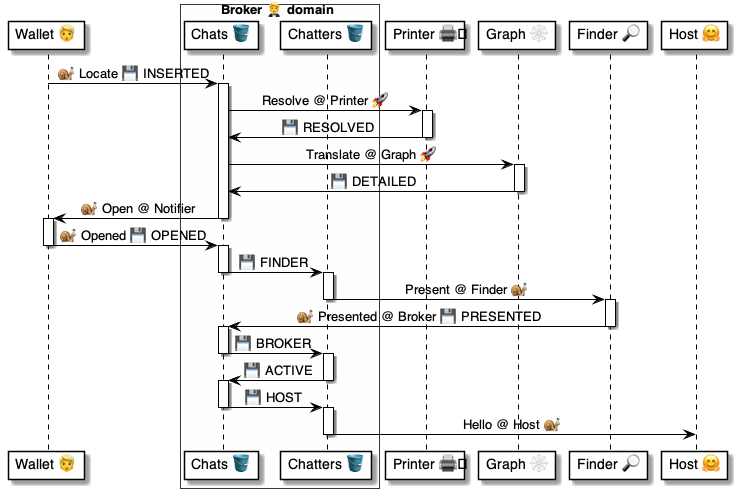
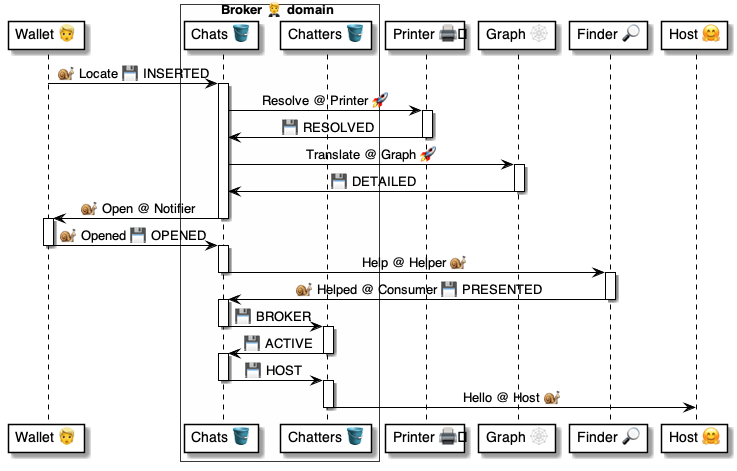
.

diff --git a/4 ⚙ Solution/20 🧑🦰 UI/Brokers 🤵/🤵🪣 Broker tables/Chatters 👥 table/🪣 Chatters/🤵 Broker.Chatters 🪣 table.md b/4 ⚙ Solution/20 🧑🦰 UI/Brokers 🤵/🤵🪣 Broker tables/Chatters 👥 table/🪣 Chatters/🤵 Broker.Chatters 🪣 table.md
@@ -11,7 +11,7 @@
 | [Role 🎭](<../../../../../40 👥 Domains/👥 Domain/👥🎭 Domain Role.md>) | [Broker 🤵](<../../../🤵 Broker helper/🤵 Broker 🤲 helper.md>) | [domain 👥](<../../../../../40 👥 Domains/👥 Domain/👥 Domain.md>) | Details
 |-|-|-|-
 | [Host 🤗](<../../../../../41 🎭 Domain Roles/Hosts 🤗/🤗 Host role/🤗🎭 Host role.md>) | [`Locate@Broker`](<../../../🤵📨 Broker msgs/Locators 🔆 Locate 🧑🦰🐌🤵/🤵 Locate 🐌 msg.md>) | [`Hello@Host`](<../../../../../41 🎭 Domain Roles/Hosts 🤗/🤗📨 Host msgs/Hello 🤵🐌🤗/🤗 Hello 🐌 msg.md>)| Done
-| [Finder 🔎](<../../../../../50 🫥 Agent domains/Finders 🔎/🔎 Finder agent/🔎 Finder 🫥 agent.md>) | [`Locate@Broker`](<../../../🤵📨 Broker msgs/Locators 🔆 Locate 🧑🦰🐌🤵/🤵 Locate 🐌 msg.md>) | [`Present@Finder`](<../../../../../50 🫥 Agent domains/Finders 🔎/🔎🅰 Finder methods/Present 🤵🐌🔎/🔎 Present 🐌 msg.md>) | Done
+| [Finder 🔎](<../../../../../50 🫥 Agent domains/Finders 🔎/🔎 Finder agent/🔎 Finder 🫥 agent.md>) | [`Locate@Broker`](<../../../🤵📨 Broker msgs/Locators 🔆 Locate 🧑🦰🐌🤵/🤵 Locate 🐌 msg.md>) | [`Present@Finder`](<../../../../../50 🫥 Agent domains/Finders 🔎/🔎😃 Talkers/Present/🔎 Present 🐌 msg.md>) | Done
 | [Helper 🤲](<../../../../../45 🤲 Helper domains/$ Helpers 🤲/🤲 Helper/🤲👥 Helper domain.md>) | [`Invite@Broker`](<../../../🤵📨 Broker msgs/Share 💼 Invite 💼🐌🤵/🤵 Invite 🐌 msg.md>) | [`Help@Helper`](<../../../../../45 🤲 Helper domains/$ Helpers 🤲/🤲📨 Helper msgs/🤵🐌🤲 Invited/🤲 Help 🐌 msg.md>) | Done
 | [Vault 🗄](<../../../../../41 🎭 Domain Roles/Vaults 🗄/🗄 Vault/🗄🎭 Vault role.md>) | [`Query@Broker`](<../../../🤵📨 Broker msgs/Share 💼 Query 💼🐌🤵/🤵 Query 🐌 msg.md>) | [`Disclose@Vault`](<../../../../../41 🎭 Domain Roles/Vaults 🗄/🗄📨 Vault msgs/Disclose 🤵🐌🗄/🗄 Disclose 🐌 msg.md>) | Missing 🚨
 |
@@ -54,12 +54,11 @@ Parents:
 
 <br/>
 
-The [Item 🛢 Handlers](<../../../../../30 🧩 Data/Datasets 🪣/🪣🛢 Itemized datasets/Item 🛢 Handlers.md>) are: [`OnPop`](<../🪣🧱 11 Pop 🔔 event/🤵 OnChatterPop 🔔 handler.md>) [`OnFinder`](<../🪣🧱 21 Finder 🔔 event/🤵 OnChatterFinder 🔔 handler.md>) [`OnBroker`](<../🪣🧱 22 Broker 🔔 event/🤵 OnChatterBroker 🔔 handler.md>) [`OnHost`](<../🪣🧱 23 Host 🔔 event/🤵 OnChatterHost 🔔 handler.md>) [`OnHelper`](<../🪣🧱 34 Helper 🔔 event/🤵 OnChatterHelper 🔔 handler.md>)
+The [Item 🛢 Handlers](<../../../../../30 🧩 Data/Datasets 🪣/🪣🛢 Itemized datasets/Item 🛢 Handlers.md>) are: [`OnPop`](<../🪣🧱 11 Pop 🔔 event/🤵 OnChatterPop 🔔 handler.md>)  [`OnBroker`](<../🪣🧱 22 Broker 🔔 event/🤵 OnChatterBroker 🔔 handler.md>) [`OnHost`](<../🪣🧱 23 Host 🔔 event/🤵 OnChatterHost 🔔 handler.md>) [`OnHelper`](<../🪣🧱 34 Helper 🔔 event/🤵 OnChatterHelper 🔔 handler.md>)
 
 ```yaml
 Handlers:
     POP    >> OnPop:      # Handles a pop-up
-    FINDER >> OnFinder:   # Calls Present@Finder
     BROKER >> OnBroker:   # Calls Prompt@Notifier
     HOST   >> OnHost:     # Calls Hello@Host
     HELPER >> OnHelper:   # Calls Help@Helper
@@ -146,5 +145,5 @@ Field|Type|Details|Origin|Purpose
 |`Key`| text | [Locator 🔆](<../../../../../25 🔆 Locators/Locators 🔆/🔆 Locator.md>) key || [`Chat@`](<../../../🤵📨 Broker msgs/Chats 💬 Chat 🤗🚀🤵/🤵 Chat 📃 handler.md>) |
 |`Parameters` | map | [Chat 💬](<../../../../../35 💬 Chats/Chats 💬/💬 Chat.md>) parameters || [`Chat@`](<../../../🤵📨 Broker msgs/Chats 💬 Chat 🤗🚀🤵/🤵 Chat 📃 handler.md>)
 |`Binds`|list| [Binds 🔗](<../../../../../30 🧩 Data/Binds 🔗/🔗 Bind.md>) shared |  | [`Chat@`](<../../../🤵📨 Broker msgs/Chats 💬 Chat 🤗🚀🤵/🤵 Chat 📃 handler.md>)
-|`Tokens` | list | [Tokens 🎫](<../../../../../30 🧩 Data/Tokens 🎫/🎫 Token/🎫 Token.md>) shared || [`Presented@`](<../../../🤵📨 Broker msgs/Chats 💬 Presented 🔎🐌🤵/🤵 Presented 🐌 msg.md>)
+|`Tokens` | list | [Tokens 🎫](<../../../../../30 🧩 Data/Tokens 🎫/🎫 Token/🎫 Token.md>) shared || [`Chat@`](<../../../🤵📨 Broker msgs/Chats 💬 Chat 🤗🚀🤵/🤵 Chat 📃 handler.md>)
 |

diff --git a/4 ⚙ Solution/50 🫥 Agent domains/Finders 🔎/🔎😃 Talkers/Present/🔎 Present 🐌 msg.md b/4 ⚙ Solution/50 🫥 Agent domains/Finders 🔎/🔎😃 Talkers/Present/🔎 Present 🐌 msg.md
@@ -10,31 +10,24 @@
 > Used by 
 
 *  [🔎⏩🧑🦰 Present 🤗](<../../🔎⏩ Finder flows/Present 🔎⏩🧑🦰/🔎 Present ⏩ flow.md>) flow:
-* followed by [`Presented@Broker` 🐌 msg](<../../../../20 🧑🦰 UI/Brokers 🤵/🤵📨 Broker msgs/Chats 💬 Presented 🔎🐌🤵/🤵 Presented 🐌 msg.md>)
 
 <br/>
 
-## Async Message 🐌
+## Event
 
 ```yaml
-Header:
-    From: any-broker.dom
-    To: any-finder.dom
-    Subject: Present@Broker
-
-Body:
-    Chat: <chat-uuid>
-    Host: any-host.dom
-    Language: en-us
-    Reviewer: any-reviewer.dom
+Broker: any-broker.dom
+Chat: <chat-uuid>
+Host: any-host.dom
+Language: en-us
+Reviewer: any-reviewer.dom
 ```
 
-|Object|Property|Type|Description|Origin|Purpose
+||Property|Type|Description|Origin|Purpose
 |-|-|-|-|-|-
-| Header |`From`|text| [Finder 🔎](<../../🔎 Finder agent/🔎 Finder 🫥 agent.md>) | [`Bound@Vault`](<../../../../41 🎭 Domain Roles/Vaults 🗄/🗄📨 Vault msgs/Bound 🤵🐌🗄/🗄 Bound 🐌 msg.md>)
-|        |`To`|text| [Broker 🤵](<../../../../20 🧑🦰 UI/Brokers 🤵/🤵 Broker helper/🤵 Broker 🤲 helper.md>) | [`Open@Notifier`](<../../../../20 🧑🦰 UI/Notifiers 📣/📣📨 Notifier msgs/Chats 💬 Open 🤵🐌📣/📣 Open 🐌 msg.md>) |[`Prompt@Broker`](<../../../../20 🧑🦰 UI/Brokers 🤵/🤵📨 Broker msgs/Chats 💬 Prompt 🤗🐌🤵/🤵 Prompt 🐌 msg.md>)
-|        | `Subject` |text| `Presented@Broker`
-| Body   | `Chat`  | uuid   | [Chat 💬](<../../../../35 💬 Chats/Chats 💬/💬 Chat.md>) | [`Open@Notifier`](<../../../../20 🧑🦰 UI/Notifiers 📣/📣📨 Notifier msgs/Chats 💬 Open 🤵🐌📣/📣 Open 🐌 msg.md>) | [`Prompt@Broker`](<../../../../20 🧑🦰 UI/Brokers 🤵/🤵📨 Broker msgs/Chats 💬 Prompt 🤗🐌🤵/🤵 Prompt 🐌 msg.md>)
+| |`Finder`|text| [Finder 🔎](<../../🔎 Finder agent/🔎 Finder 🫥 agent.md>) | [`Bound@Vault`](<../../../../41 🎭 Domain Roles/Vaults 🗄/🗄📨 Vault msgs/Bound 🤵🐌🗄/🗄 Bound 🐌 msg.md>)
+|        |`Broker`|text| [Broker 🤵](<../../../../20 🧑🦰 UI/Brokers 🤵/🤵 Broker helper/🤵 Broker 🤲 helper.md>) | [`Open@Notifier`](<../../../../20 🧑🦰 UI/Notifiers 📣/📣📨 Notifier msgs/Chats 💬 Open 🤵🐌📣/📣 Open 🐌 msg.md>) |[`Prompt@Broker`](<../../../../20 🧑🦰 UI/Brokers 🤵/🤵📨 Broker msgs/Chats 💬 Prompt 🤗🐌🤵/🤵 Prompt 🐌 msg.md>)
+|   | `Chat`  | uuid   | [Chat 💬](<../../../../35 💬 Chats/Chats 💬/💬 Chat.md>) | [`Open@Notifier`](<../../../../20 🧑🦰 UI/Notifiers 📣/📣📨 Notifier msgs/Chats 💬 Open 🤵🐌📣/📣 Open 🐌 msg.md>) | [`Prompt@Broker`](<../../../../20 🧑🦰 UI/Brokers 🤵/🤵📨 Broker msgs/Chats 💬 Prompt 🤗🐌🤵/🤵 Prompt 🐌 msg.md>)
 |       | `Host`| domain | [Host 🤗](<../../../../41 🎭 Domain Roles/Hosts 🤗/🤗 Host role/🤗🎭 Host role.md>) | [`Open@Notifier`](<../../../../20 🧑🦰 UI/Notifiers 📣/📣📨 Notifier msgs/Chats 💬 Open 🤵🐌📣/📣 Open 🐌 msg.md>) | [`About@Graph`](<../../../../45 🤲 Helper domains/Graphs 🕸/🕸📨 Graph msgs/👥🚀🕸 About/🕸 About 🚀 call.md>)
 |       | `Language` |text| [Chat 💬](<../../../../35 💬 Chats/Chats 💬/💬 Chat.md>) language | [`Pop@Broker`](<../../../../20 🧑🦰 UI/Brokers 🤵/🤵📨 Broker msgs/Wallets 🧑🦰 Pop 🧑🦰🐌🤵/🤵 Pop 🐌 msg.md>) | [`Translate@Graph`](<../../../../45 🤲 Helper domains/Graphs 🕸/🕸📨 Graph msgs/👥🚀🕸 Translate/🕸 Translate 🚀 call.md>)
 | | `Reviewer` | domain | [Reviewer ⭐](<../../../Reviewers ⭐/⭐ Reviewer agent/⭐ Reviewer 🫥 agent.md>) | [`Bound@Vault`](<../../../../41 🎭 Domain Roles/Vaults 🗄/🗄📨 Vault msgs/Bound 🤵🐌🗄/🗄 Bound 🐌 msg.md>) | [`Reviews@Reviewer`](<../../../Reviewers ⭐/⭐🅰 Reviewer methods/🔎🚀⭐ Reviews.md>)

diff --git a/4 ⚙ Solution/20 🧑🦰 UI/Brokers 🤵/🤵🪣 Broker tables/Chats 💬 table/🪣 Chats/🤵 Broker.Chats 🪣 table.md b/4 ⚙ Solution/20 🧑🦰 UI/Brokers 🤵/🤵🪣 Broker tables/Chats 💬 table/🪣 Chats/🤵 Broker.Chats 🪣 table.md
@@ -14,8 +14,8 @@
 |[`Open`](<../🪣🧱 10 Open ⏩ flow/🤵 Broker.Chats.Open ⏩ flow.md>)|[`ASKED`](<../🪣🧱 11 Asked 🔔 event/🤵 OnChatAsked 🔔 handler.md>) |[`Locate` 🐌](<../../../🤵📨 Broker msgs/Locators 🔆 Locate 🧑🦰🐌🤵/🤵 Locate 📃 handler.md>)| [`Resolve@Printer` 🚀](<../../../../../45 🤲 Helper domains/Printers 🖨/🖨📨 Printer msgs/Resolve 👥🚀🖨/🖨 Resolve 📃 handler.md>) | Inserted
 ||[`RESOLVED`](<../🪣🧱 12 Resolved 🔔 event/🤵 OnChatResolved 🔔 handler.md>) || [`About@Graph` 🚀](<../../../../../45 🤲 Helper domains/Graphs 🕸/🕸📨 Graph msgs/👥🚀🕸 About/🕸 About 📃 handler.md>) | Final [Locator 🔆](<../../../../../25 🔆 Locators/Locators 🔆/🔆 Locator.md>)
 ||[`DETAILED`](<../🪣🧱 13 Detailed 🔔 event/🤵 OnChatDetailed 🔔 handler.md>) || [`Open@Notifier` 🐌](<../../../../Notifiers 📣/📣📨 Notifier msgs/Chats 💬 Open 🤵🐌📣/📣 Open 🐌 msg.md>) | With translations
-||[`OPENED`](<../🪣🧱 14 Opened 🔔 event/🤵 OnChatOpened 🔔 handler.md>) |[`Opened` 🐌](<../../../🤵📨 Broker msgs/Chats 💬 Opened 🧑🦰🐌🤵/🤵 Opened 📃 handler.md>)| [`Present@Finder` 🐌](<../../../../../50 🫥 Agent domains/Finders 🔎/🔎🅰 Finder methods/Present 🤵🐌🔎/🔎 Present 🐌 msg.md>) | Open on [Wallet 🧑🦰](<../../../../Wallets 🧑🦰/🧑🦰 Wallet app/🧑🦰 Wallet 🛠 app.md>)
-||[`PRESENTED`](<../🪣🧱 15 Presented 🔔 event/🤵 OnChatPresented 🔔 handler.md>) | [`Presented` 🐌](<../../../🤵📨 Broker msgs/Chats 💬 Presented 🔎🐌🤵/🤵 Presented 📃 handler.md>) | [`Prompt@Notifier` 🐌](<../../../🤵📨 Broker msgs/Chats 💬 Prompt 🤗🐌🤵/🤵 Prompt 🐌 msg.md>) |With  [Finder 🔎](<../../../../../50 🫥 Agent domains/Finders 🔎/🔎 Finder agent/🔎 Finder 🫥 agent.md>) intro
+||[`OPENED`](<../🪣🧱 14 Opened 🔔 event/🤵 OnChatOpened 🔔 handler.md>) |[`Opened` 🐌](<../../../🤵📨 Broker msgs/Chats 💬 Opened 🧑🦰🐌🤵/🤵 Opened 📃 handler.md>)| [`Present@Finder` 🐌](<../../../../../50 🫥 Agent domains/Finders 🔎/🔎😃 Talkers/Present/🔎 Present 🐌 msg.md>) | Open on [Wallet 🧑🦰](<../../../../Wallets 🧑🦰/🧑🦰 Wallet app/🧑🦰 Wallet 🛠 app.md>)
+||[`PRESENTED`](<../🪣🧱 15 Presented 🔔 event/🤵 OnChatPresented 🔔 handler.md>) |  | [`Prompt@Notifier` 🐌](<../../../🤵📨 Broker msgs/Chats 💬 Prompt 🤗🐌🤵/🤵 Prompt 🐌 msg.md>) |With  [Finder 🔎](<../../../../../50 🫥 Agent domains/Finders 🔎/🔎 Finder agent/🔎 Finder 🫥 agent.md>) intro
 ||[`ACTIVATED`](<../🪣🧱 16 Activated 🔔 event/🤵 OnChatActivated 🔔 handler.md>)|| [`Hello@Host` 🐌](<../../../../../41 🎭 Domain Roles/Hosts 🤗/🤗📨 Host msgs/Hello 🤵🐌🤗/🤗 Hello 🐌 msg.md>) | With [Broker 🤵](<../../../🤵 Broker helper/🤵 Broker 🤲 helper.md>) intro
 |[`Abandon`](<../🪣🧱 40 Abandon ⏩ flow/🤵 Broker.Chats.Abandon ⏩ flow.md>)|[`ABANDONED`](<../🪣🧱 41 Abandoned 🔔 event/🤵 OnChatAbandoned 🔔 handler.md>)| [`Pop` 🐌](<../../../🤵📨 Broker msgs/Wallets 🧑🦰 Pop 🧑🦰🐌🤵/🤵 Pop 📃 handler.md>) |[`Abandoned@Host` 🐌](<../../../../../41 🎭 Domain Roles/Hosts 🤗/🤗📨 Host msgs/Abandoned 🤵🐌🤗/🤗 Abandoned 🐌 msg.md>) | Abandoned by user
 |[`Wrap`](<../🪣🧱 50 Wrap ⏩ flow/🤵 Broker.Chats.Wrap ⏩ flow.md>)|[`WRAPPED`](<../🪣🧱 51 Wrap 🔔 event/🤵 OnChatWrapped 🔔 handler.md>)| [`Goodbye` 🐌](<../../../🤵📨 Broker msgs/Chats 💬 Goodbye 🤗🐌🤵/🤵 Goodbye 📃 handler.md>) ||Closed by [Host 🤗](<../../../../../41 🎭 Domain Roles/Hosts 🤗/🤗 Host role/🤗🎭 Host role.md>)

diff --git a/4 ⚙ Solution/20 🧑🦰 UI/Brokers 🤵/🤵⏩ Broker flows/Locate 🔆⏩🤵/🤵 Locate ⏩ flow.md b/4 ⚙ Solution/20 🧑🦰 UI/Brokers 🤵/🤵⏩ Broker flows/Locate 🔆⏩🤵/🤵 Locate ⏩ flow.md
@@ -44,9 +44,9 @@
 |2|[🤵🚀🖨 `Resolve@Printer`](<../../../../45 🤲 Helper domains/Printers 🖨/🖨📨 Printer msgs/Resolve 👥🚀🖨/🖨 Resolve 🚀 call.md>) | Ask [Printers 🖨](<../../../../45 🤲 Helper domains/Printers 🖨/🖨🤲 Printer helper.md>) to resolve [`.ALIAS` 🧩](<../../../../45 🤲 Helper domains/Printers 🖨/🖨🧩 Printer schemas/🧩 ALIAS.md>)
 |3| [🤵🐌📣 `Open@Notifier`](<../../../Notifiers 📣/📣📨 Notifier msgs/Chats 💬 Open 🤵🐌📣/📣 Open 🐌 msg.md>) | Ask [Wallets 🧑🦰](<../../../Wallets 🧑🦰/🧑🦰 Wallet app/🧑🦰 Wallet 🛠 app.md>)  to open a chat window
 |4| [🧑🦰🐌🤵 `Opened@Broker`](<../../🤵📨 Broker msgs/Chats 💬 Opened 🧑🦰🐌🤵/🤵 Opened 🐌 msg.md>) | [Wallets 🧑🦰](<../../../Wallets 🧑🦰/🧑🦰 Wallet app/🧑🦰 Wallet 🛠 app.md>) confirm readiness
-|5| [🤵🐌🔎`Present@Finder`](<../../../../50 🫥 Agent domains/Finders 🔎/🔎🅰 Finder methods/Present 🤵🐌🔎/🔎 Present 🐌 msg.md>) | Ask [Finders 🔎](<../../../../50 🫥 Agent domains/Finders 🔎/🔎 Finder agent/🔎 Finder 🫥 agent.md>) to introduce [Hosts 🤗](<../../../../41 🎭 Domain Roles/Hosts 🤗/🤗 Host role/🤗🎭 Host role.md>)
+|5| [🤵🐌🤲 `Help@Helper`](<../../../../45 🤲 Helper domains/$ Helpers 🤲/🤲📨 Helper msgs/🤵🐌🤲 Invited/🤲 Help 🐌 msg.md>) | Ask [Finders 🔎](<../../../../50 🫥 Agent domains/Finders 🔎/🔎 Finder agent/🔎 Finder 🫥 agent.md>) to introduce [Hosts 🤗](<../../../../41 🎭 Domain Roles/Hosts 🤗/🤗 Host role/🤗🎭 Host role.md>)
 |6| [🤗⏩🧑🦰 Prompt](<../../../../41 🎭 Domain Roles/Hosts 🤗/🤗⏩ Host flows/Prompt 🤗⏩🤔/🤗 Prompt ⏩ flow.md>) | [Finders 🔎](<../../../../50 🫥 Agent domains/Finders 🔎/🔎 Finder agent/🔎 Finder 🫥 agent.md>) introduce [Hosts 🤗](<../../../../41 🎭 Domain Roles/Hosts 🤗/🤗 Host role/🤗🎭 Host role.md>)
-|7| [🔎🐌🤵 `Presented@Broker`](<../../🤵📨 Broker msgs/Chats 💬 Presented 🔎🐌🤵/🤵 Presented 🐌 msg.md>) | [Finders 🔎](<../../../../50 🫥 Agent domains/Finders 🔎/🔎 Finder agent/🔎 Finder 🫥 agent.md>) confirm introduction
+|7| [🤲🐌💼 `Helped@Consumer`](<../../../../41 🎭 Domain Roles/Consumers 💼/💼📨 Consumer msgs/Helped 🤲🐌💼/💼 Helped 🐌 msg.md>) | [Finders 🔎](<../../../../50 🫥 Agent domains/Finders 🔎/🔎 Finder agent/🔎 Finder 🫥 agent.md>) confirm introduction
 |8| [🤗⏩🧑🦰 Prompt](<../../../../41 🎭 Domain Roles/Hosts 🤗/🤗⏩ Host flows/Prompt 🤗⏩🤔/🤗 Prompt ⏩ flow.md>) | [Brokers 🤵](<../../🤵 Broker helper/🤵 Broker 🤲 helper.md>) reference original [Chats 💬](<../../../../35 💬 Chats/Chats 💬/💬 Chat.md>) 
 |9| [🤵🐌🤗 `Hello@Host`](<../../../../41 🎭 Domain Roles/Hosts 🤗/🤗📨 Host msgs/Hello 🤵🐌🤗/🤗 Hello 🐌 msg.md>) | Ask [Hosts 🤗](<../../../../41 🎭 Domain Roles/Hosts 🤗/🤗 Host role/🤗🎭 Host role.md>) to interact
 |A | [🤗⏩🧑🦰 Prompt](<../../../../41 🎭 Domain Roles/Hosts 🤗/🤗⏩ Host flows/Prompt 🤗⏩🤔/🤗 Prompt ⏩ flow.md>) | Welcome message from [Hosts 🤗](<../../../../41 🎭 Domain Roles/Hosts 🤗/🤗 Host role/🤗🎭 Host role.md>) 

diff --git a/4 ⚙ Solution/20 🧑🦰 UI/Brokers 🤵/🤵🪣 Broker tables/Chats 💬 table/🪣🧱 10 Open ⏩ Flow/🤵 Broker.Chats.Open ⏩ flow.md b/4 ⚙ Solution/20 🧑🦰 UI/Brokers 🤵/🤵🪣 Broker tables/Chats 💬 table/🪣🧱 10 Open ⏩ Flow/🤵 Broker.Chats.Open ⏩ flow.md
@@ -19,7 +19,7 @@
 ||[`ASKED`](<../🪣🧱 11 Asked 🔔 event/🤵 OnChatAsked 🔔 handler.md>) |[`Locate` 🐌](<../../../🤵📨 Broker msgs/Locators 🔆 Locate 🧑🦰🐌🤵/🤵 Locate 📃 handler.md>)| [`Resolve@Printer` 🚀](<../../../../../45 🤲 Helper domains/Printers 🖨/🖨📨 Printer msgs/Resolve 👥🚀🖨/🖨 Resolve 📃 handler.md>) | Inserted
 ||[`RESOLVED`](<../🪣🧱 12 Resolved 🔔 event/🤵 OnChatResolved 🔔 handler.md>) || [`About@Graph` 🚀](<../../../../../45 🤲 Helper domains/Graphs 🕸/🕸📨 Graph msgs/👥🚀🕸 About/🕸 About 📃 handler.md>) | Final [Locator 🔆](<../../../../../25 🔆 Locators/Locators 🔆/🔆 Locator.md>)
 ||[`DETAILED`](<../🪣🧱 13 Detailed 🔔 event/🤵 OnChatDetailed 🔔 handler.md>) || [`Open@Notifier` 🐌](<../../../../Notifiers 📣/📣📨 Notifier msgs/Chats 💬 Open 🤵🐌📣/📣 Open 🐌 msg.md>) | With translations
-||[`OPENED`](<../🪣🧱 14 Opened 🔔 event/🤵 OnChatOpened 🔔 handler.md>) | [`Opened` 🐌](<../../../🤵📨 Broker msgs/Chats 💬 Opened 🧑🦰🐌🤵/🤵 Opened 📃 handler.md>) | [`Present@Finder` 🐌](<../../../../../50 🫥 Agent domains/Finders 🔎/🔎🅰 Finder methods/Present 🤵🐌🔎/🔎 Present 🐌 msg.md>) | Open on [Wallet 🧑🦰](<../../../../Wallets 🧑🦰/🧑🦰 Wallet app/🧑🦰 Wallet 🛠 app.md>)
-||[`PRESENTED`](<../🪣🧱 15 Presented 🔔 event/🤵 OnChatPresented 🔔 handler.md>) | [`Presented` 🐌](<../../../🤵📨 Broker msgs/Chats 💬 Presented 🔎🐌🤵/🤵 Presented 📃 handler.md>) | [`Prompt@Notifier` 🐌](<../../../🤵📨 Broker msgs/Chats 💬 Prompt 🤗🐌🤵/🤵 Prompt 🐌 msg.md>) |With  [Finder 🔎](<../../../../../50 🫥 Agent domains/Finders 🔎/🔎 Finder agent/🔎 Finder 🫥 agent.md>) intro
+||[`OPENED`](<../🪣🧱 14 Opened 🔔 event/🤵 OnChatOpened 🔔 handler.md>) | [`Opened` 🐌](<../../../🤵📨 Broker msgs/Chats 💬 Opened 🧑🦰🐌🤵/🤵 Opened 📃 handler.md>) | [`INVITE`](<../../../../../41 🎭 Domain Roles/Consumers 💼/💼⌘ Consumer cmds/INVITE 🤲/🤲 INVITE ⌘ cmd.md>) | Open on [Wallet 🧑🦰](<../../../../Wallets 🧑🦰/🧑🦰 Wallet app/🧑🦰 Wallet 🛠 app.md>)
+||[`PRESENTED`](<../🪣🧱 15 Presented 🔔 event/🤵 OnChatPresented 🔔 handler.md>) |  | [`Prompt@Notifier` 🐌](<../../../🤵📨 Broker msgs/Chats 💬 Prompt 🤗🐌🤵/🤵 Prompt 🐌 msg.md>) |With  [Finder 🔎](<../../../../../50 🫥 Agent domains/Finders 🔎/🔎 Finder agent/🔎 Finder 🫥 agent.md>) intro
 ||[`ACTIVATED`](<../🪣🧱 16 Activated 🔔 event/🤵 OnChatActivated 🔔 handler.md>)|| [`Hello@Host` 🐌](<../../../../../41 🎭 Domain Roles/Hosts 🤗/🤗📨 Host msgs/Hello 🤵🐌🤗/🤗 Hello 🐌 msg.md>) | With [Broker 🤵](<../../../🤵 Broker helper/🤵 Broker 🤲 helper.md>) intro
 |

diff --git a/4 ⚙ Solution/20 🧑🦰 UI/Brokers 🤵/🤵 Broker helper/🤵 Broker 🤲 helper.md b/4 ⚙ Solution/20 🧑🦰 UI/Brokers 🤵/🤵 Broker helper/🤵 Broker 🤲 helper.md
@@ -92,7 +92,6 @@
     | [`💬 Chats`](<../../../35 💬 Chats/Chats 💬/💬 Chat.md>)  | [🧑🦰🚀 Locate](<../🤵📨 Broker msgs/Locators 🔆 Locate 🧑🦰🐌🤵/🤵 Locate 🐌 msg.md>) | Parse the [Locator 🔆](<../../../25 🔆 Locators/Locators 🔆/🔆 Locator.md>) on the [Broker 🤵](<🤵 Broker 🤲 helper.md>)
     | | [🧑🦰🚀 Chats](<../🤵📨 Broker msgs/Wallets 🧑🦰 Frontend 🧑🦰🚀🤵/🤵 Frontend 🚀 call.md>) | Fetch [Chats 💬](<../../../35 💬 Chats/Chats 💬/💬 Chat.md>) from the [Broker 🤵](<🤵 Broker 🤲 helper.md>)
     | | [🤗🐌 Prompt](<../🤵📨 Broker msgs/Chats 💬 Prompt 🤗🐌🤵/🤵 Prompt 🐌 msg.md>) |   [Prompt 🤔](<../../../35 💬 Chats/Chats 💬/🤔 Prompt.md>) intent from [Host 🤗 domain](<../../../41 🎭 Domain Roles/Hosts 🤗/🤗 Host role/🤗🎭 Host role.md>) 
-    | |[🔎🐌 Presented](<../🤵📨 Broker msgs/Chats 💬 Presented 🔎🐌🤵/🤵 Presented 🐌 msg.md>) | A [Finder 🔎 domain](<../../../50 🫥 Agent domains/Finders 🔎/🔎 Finder agent/🔎 Finder 🫥 agent.md>) finished the intro
     | |[🤗🐌 Goodbye](<../🤵📨 Broker msgs/Chats 💬 Goodbye 🤗🐌🤵/🤵 Goodbye 🐌 msg.md>) | A [Host 🤗 domain](<../../../41 🎭 Domain Roles/Hosts 🤗/🤗 Host role/🤗🎭 Host role.md>) ended the [Chat 💬](<../../../35 💬 Chats/Chats 💬/💬 Chat.md>)
     | | [👀🐌 Promote](<../🤵📨 Broker msgs/Locators 🔆 Promote 👀🐌🤵/🤵 Promote 🐌 msg.md>) |  Check-in into the selected [Locator 🔆](<../../../25 🔆 Locators/Locators 🔆/🔆 Locator.md>)
     |[`🔗 Binds`](<../../../30 🧩 Data/Binds 🔗/🔗 Bind.md>)|  [🗄🐌 Bind](<../🤵📨 Broker msgs/Binds 🔗 Bind 🗄🐌🤵/🤵 Bind 🐌 msg.md>) | [Vaults 🗄](<../../../41 🎭 Domain Roles/Vaults 🗄/🗄 Vault/🗄🎭 Vault role.md>) offer to bind [Schema Codes 🧩](<../../../30 🧩 Data/Codes 🧩/🧩 Schema Code.md>)

diff --git a/4 ⚙ Solution/50 🫥 Agent domains/Finders 🔎/🔎😃 Talkers/Present/🔎 Present 📃 handler.md b/4 ⚙ Solution/50 🫥 Agent domains/Finders 🔎/🔎😃 Talkers/Present/🔎 Present 📃 handler.md
@@ -13,16 +13,12 @@
 
 ## Script
 
-> Called by the [`Locate@Broker` 📃 handler](<../../../../20 🧑🦰 UI/Brokers 🤵/🤵📨 Broker msgs/Locators 🔆 Locate 🧑🦰🐌🤵/🤵 Locate 📃 handler.md>)
 
 ```yaml
 📃 Present@Finder: 
 
-# Verify the message
-- VERIFY|$.Msg
-
 # Assert the inputs
-- ASSERT|$.Msg:
+- ASSERT|$.Inputs:
     AllOf: Chat, Host, Language, Reviewers
     UUIDs: Chat
     Texts: Host, Language, Reviewers
@@ -33,25 +29,21 @@
 
         Identity:
             SEND >> $identity:
-                Header:
-                    To: $.Hosted.Graph
-                    Subject: About@Graph
-                Body: 
-                    Domain: $.Msg.Host
+                To: $.Hosted.Graph
+                Subject: About@Graph
+                Domain: $Host
 
         Translate:
             TRANSLATE >> $translation:
-                Domain: $.Msg.Host
-                To: $.Msg.Language
+                Domain: $Host
+                To: $Language
 
         Reviews:
             SEND >> $reviews:
-                Header:
-                    To: $.Msg.Reviewer
-                    Subject: Reviews@Reviewer
-                Body:
-                    Language: $.Msg.Language
-                    Domain: $.Msg.Host$
+                To: $Reviewer
+                Subject: Reviews@Reviewer
+                Language: $Language
+                Domain: $Host
 
 # Send the Prompt
 - INFO:
@@ -62,14 +54,6 @@
         {$identity.Description}
     Options:
         $reviews.Options
-
-# Inform the Broker
-- SEND:
-    Header:
-        To: $.Msg.From
-        Subject: Presented@Broker
-    Body:
-        Chat: $.Msg.Chat
 ```
 
 Uses||

diff --git a/4 ⚙ Solution/50 🫥 Agent domains/Finders 🔎/🔎⏩ Finder flows/Present 🔎⏩🧑🦰/🔎 Present ⏩ flow.md b/4 ⚙ Solution/50 🫥 Agent domains/Finders 🔎/🔎⏩ Finder flows/Present 🔎⏩🧑🦰/🔎 Present ⏩ flow.md
@@ -30,10 +30,10 @@
 
 | # | Call | Notes
 |-|-|-
-| 1 | [🤵🐌🔎 `Present@Finder`](<../../🔎🅰 Finder methods/Present 🤵🐌🔎/🔎 Present 🐌 msg.md>) | Ask to introduce a [Host 🤗](<../../../../41 🎭 Domain Roles/Hosts 🤗/🤗 Host role/🤗🎭 Host role.md>).
+| 1 | [🤵🐌🔎 `Present@Finder`](<../../🔎😃 Talkers/Present/🔎 Present 🐌 msg.md>) | Ask to introduce a [Host 🤗](<../../../../41 🎭 Domain Roles/Hosts 🤗/🤗 Host role/🤗🎭 Host role.md>).
 | 2 | [🔎🚀⭐ `Reviews@Reviewer`](<../../../Reviewers ⭐/⭐🅰 Reviewer methods/🔎🚀⭐ Reviews.md>) | Get domain reviews (may be cached).
 | 3 | [👥🚀🕸 `About@Graph`](<../../../../45 🤲 Helper domains/Graphs 🕸/🕸📨 Graph msgs/👥🚀🕸 About/🕸 About 🚀 call.md>) | Get domain identity (may be cached).
 | 4 | [👥🚀🕸 `Translate@Graph`](<../../../../45 🤲 Helper domains/Graphs 🕸/🕸📨 Graph msgs/👥🚀🕸 Translate/🕸 Translate 🚀 call.md>) | Get domain translations (may be cached).
 | 5 | [🤗⏩🧑🦰 Prompt 🤔](<../../../../41 🎭 Domain Roles/Hosts 🤗/🤗⏩ Host flows/Prompt 🤗⏩🤔/🤗 Prompt ⏩ flow.md>) | Inform the user.
-| 6 | [🔎🐌🤵 `Presented@Broker`](<../../../../20 🧑🦰 UI/Brokers 🤵/🤵📨 Broker msgs/Chats 💬 Presented 🔎🐌🤵/🤵 Presented 🐌 msg.md>) | Finish introduction.
+| 6 | [🤲🐌💼 `Helped@Consumer`](<../../../../41 🎭 Domain Roles/Consumers 💼/💼📨 Consumer msgs/Helped 🤲🐌💼/💼 Helped 🐌 msg.md>) | Finish introduction.
 ||

diff --git a/4 ⚙ Solution/50 🫥 Agent domains/Reviewers ⭐/⭐🅰 Reviewer methods/🔎🚀⭐ Reviews.md b/4 ⚙ Solution/50 🫥 Agent domains/Reviewers ⭐/⭐🅰 Reviewer methods/🔎🚀⭐ Reviews.md
@@ -27,10 +27,10 @@ Body:
 
 |Object|Property|Type|Description|Origin
 |-|-|-|-|-
-| Header |`From`|text| [Finder 🔎](<../../Finders 🔎/🔎 Finder agent/🔎 Finder 🫥 agent.md>) | [`Present@Finder`](<../../Finders 🔎/🔎🅰 Finder methods/Present 🤵🐌🔎/🔎 Present 🐌 msg.md>)
-|        |`To`|text| [Reviewer ⭐](<../⭐ Reviewer agent/⭐ Reviewer 🫥 agent.md>) | [`Present@Finder`](<../../Finders 🔎/🔎🅰 Finder methods/Present 🤵🐌🔎/🔎 Present 🐌 msg.md>)
+| Header |`From`|text| [Finder 🔎](<../../Finders 🔎/🔎 Finder agent/🔎 Finder 🫥 agent.md>) | [`Present@Finder`](<../../Finders 🔎/🔎😃 Talkers/Present/🔎 Present 🐌 msg.md>)
+|        |`To`|text| [Reviewer ⭐](<../⭐ Reviewer agent/⭐ Reviewer 🫥 agent.md>) | [`Present@Finder`](<../../Finders 🔎/🔎😃 Talkers/Present/🔎 Present 🐌 msg.md>)
 |        | `Subject` |text| `Reviews@Reviewer`
-| Body   | `Domain`  | domain | [domain 👥](<../../../40 👥 Domains/👥 Domain/👥 Domain.md>) | [`Present@Finder`](<../../Finders 🔎/🔎🅰 Finder methods/Present 🤵🐌🔎/🔎 Present 🐌 msg.md>)
+| Body   | `Domain`  | domain | [domain 👥](<../../../40 👥 Domains/👥 Domain/👥 Domain.md>) | [`Present@Finder`](<../../Finders 🔎/🔎😃 Talkers/Present/🔎 Present 🐌 msg.md>)
 |
 
 <br/>

diff --git a/4 ⚙ Solution/20 🧑🦰 UI/Brokers 🤵/🤵🪣 Broker tables/Invites 🤲 table/🪣🧱 1 Invited 🔔/🤵 OnInviteInvited 🔔 handler.md b/4 ⚙ Solution/20 🧑🦰 UI/Brokers 🤵/🤵🪣 Broker tables/Invites 🤲 table/🪣🧱 1 Invited 🔔/🤵 OnInviteInvited 🔔 handler.md
@@ -18,6 +18,11 @@
 ```yaml
 📃 OnInvited:
 
+# Trust all invites from the Broker itself
+#   this is to allow intros to Chats by Finders
+- IF|$Invite.Inviter.Is($.Hosted.Domain):   
+    RETURN|TRUSTED
+
 # Assert rules
 - ASSERT|$Invite >> $valid:
     Chat.Host: Inviter   # Only from the host

diff --git a/4 ⚙ Solution/20 🧑🦰 UI/Brokers 🤵/🤵🪣 Broker tables/Chats 💬 table/🪣🧱 14 Opened 🔔 event/🤵 OnChatOpened 🔔 handler.md b/4 ⚙ Solution/20 🧑🦰 UI/Brokers 🤵/🤵🪣 Broker tables/Chats 💬 table/🪣🧱 14 Opened 🔔 event/🤵 OnChatOpened 🔔 handler.md
@@ -33,6 +33,10 @@
     Broker: $.Hosted.Domain
     Helper: $Chat.Wallet.Finder
     Schema: .CHAT/INTRO/FINDER
+    Context:
+        Host: $Chat.Host
+        Language: $Chatter.Chat.Language.Require
+        Reviewer: $Chatter.Chat.Wallet.Reviewer.Require
 
 # Then invite the Broker
 - INVITE:

diff --git a/4 ⚙ Solution/37 Scripts 📃/📃 Functions 🐍/🐍 System 🔩 functions/Markdown ⓕ.md b/4 ⚙ Solution/37 Scripts 📃/📃 Functions 🐍/🐍 System 🔩 functions/Markdown ⓕ.md
@@ -2,7 +2,6 @@
 
 > Part of [{Function} 🐍](<../../../35 💬 Chats/Scripts 📃/Function 🐍.md>)
 
-> Used by the [`Presented@Broker` 🐌 msg](<../../../20 🧑🦰 UI/Brokers 🤵/🤵📨 Broker msgs/Chats 💬 Presented 🔎🐌🤵/🤵 Presented 🐌 msg.md>)
  
 ## FAQ
 
